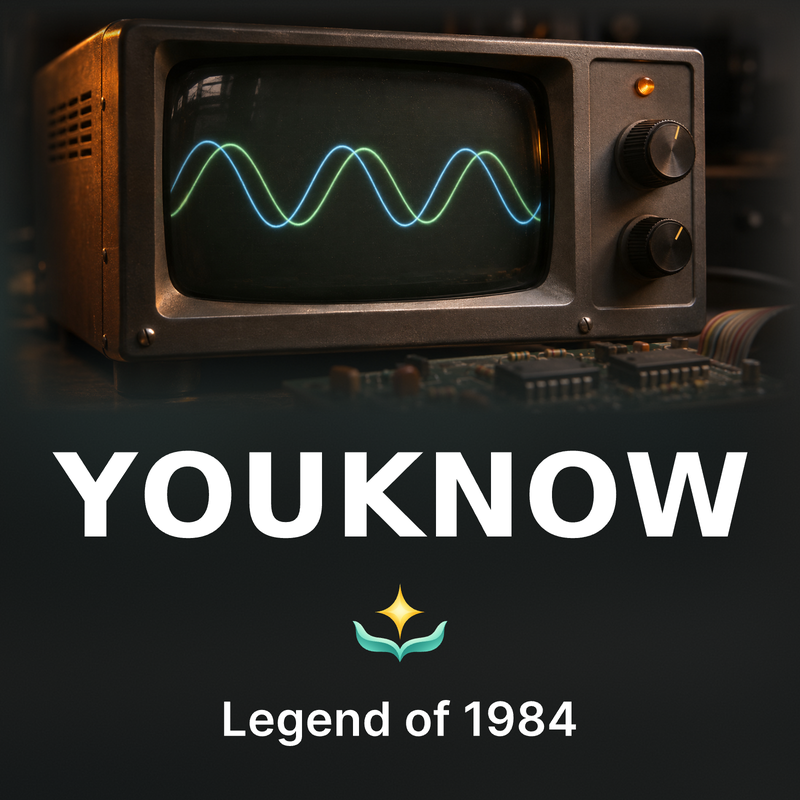
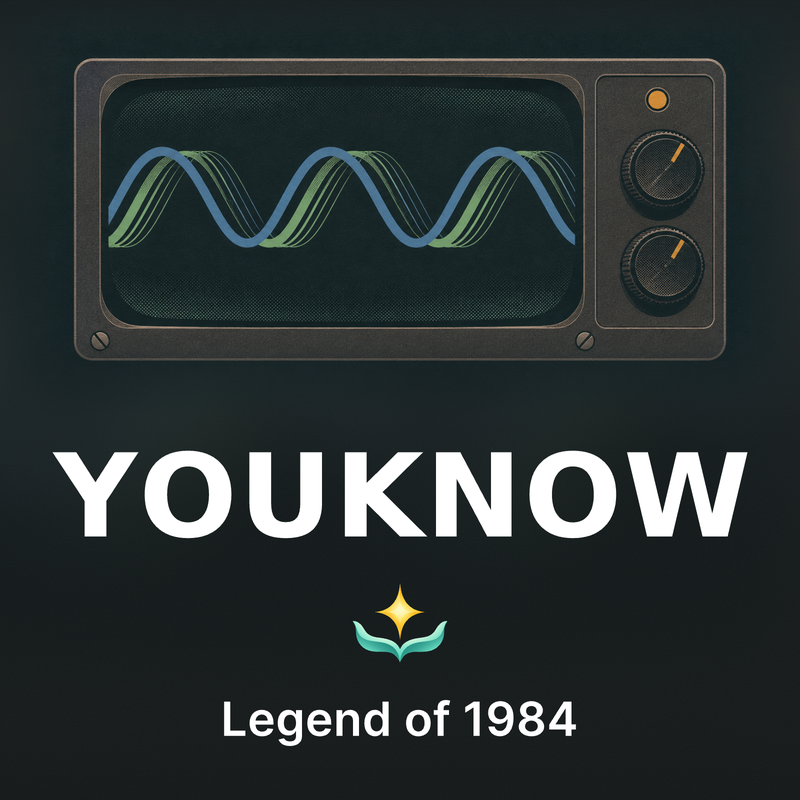
Publish illustrated overhead and front views on the synth covers
Entire-Checkpoint: a12cfdf2ab6d

Changed region(s): [[0.0, 0.0, 0.9688, 0.5]]

diff --git a/index.html b/index.html
@@ -13,7 +13,7 @@
     content="Engineering for startups and software instruments for musicians. An independent creative software studio in Prague.">
   <meta property="og:type" content="website">
   <meta property="og:url" content="https://protocodus.cz/">
-  <meta property="og:image" content="https://protocodus.cz/product/youknow/YouKnow_Thumbnail_800.png?v=37215dab394b">
+  <meta property="og:image" content="https://protocodus.cz/product/youknow/YouKnow_Thumbnail_800.png?v=ca85e44b1460">
   <meta property="og:image:width" content="800">
   <meta property="og:image:height" content="800">
   <link rel="canonical" href="https://protocodus.cz/">
@@ -212,7 +212,7 @@
           </article>
 
           <article class="product-card p-youknow">
-            <a class="product-shot" href="/product/youknow/" aria-label="Explore YouKnow" data-analytics-cta="product_youknow_image" data-analytics-action="select_product"><img src="product/youknow/YouKnow_Thumbnail_800.png?v=37215dab394b" width="800" height="800" loading="lazy" decoding="async" alt="YouKnow Legend of 1984 cover showing blue and green chorus traces on a vintage oscilloscope above a chorus circuit"></a>
+            <a class="product-shot" href="/product/youknow/" aria-label="Explore YouKnow" data-analytics-cta="product_youknow_image" data-analytics-action="select_product"><img src="product/youknow/YouKnow_Thumbnail_800.png?v=ca85e44b1460" width="800" height="800" loading="lazy" decoding="async" alt="YouKnow cover with a front view of an oscilloscope. Blue and sage chorus traces cross its screen."></a>
             <div class="product-body">
               <div class="product-tags"><span class="rack-extension-mark"><img src="/assets/images/reason-rack-extension.svg" width="1000" height="1118" alt="Reason Rack Extension" loading="lazy"></span><span class="product-type">Circuit-modelled polysynth</span></div>
               <h3><a href="/product/youknow/" data-analytics-cta="product_youknow_title" data-analytics-action="select_product">YouKnow</a></h3>
@@ -223,7 +223,7 @@
           </article>
 
           <article class="product-card p-ceres">
-            <a class="product-shot" href="/product/ceres/" aria-label="Explore Ceres" data-analytics-cta="product_ceres_image" data-analytics-action="select_product"><img src="product/ceres/Ceres_Thumbnail_800.png?v=f28b48181a28" width="800" height="800" loading="lazy" decoding="async" alt="Ceres Circuit-Modelled Synth cover showing paired banks of filter transistors on an olive circuit board in a walnut case"></a>
+            <a class="product-shot" href="/product/ceres/" aria-label="Explore Ceres" data-analytics-cta="product_ceres_image" data-analytics-action="select_product"><img src="product/ceres/Ceres_Thumbnail_800.png?v=c3adc955ffbd" width="800" height="800" loading="lazy" decoding="async" alt="Ceres cover with an overhead print of two olive filter stages and crossing gold and ivory response curves."></a>
             <div class="product-body">
               <div class="product-tags"><span>Rack Extension</span><span class="product-type">Circuit-modelled polysynth</span></div>
               <h3><a href="/product/ceres/" data-analytics-cta="product_ceres_title" data-analytics-action="select_product">Ceres</a></h3>
@@ -234,7 +234,7 @@
           </article>
 
           <article class="product-card p-press78">
-            <a class="product-shot" href="/product/press78/" aria-label="Explore Press78" data-analytics-cta="product_press78_image" data-analytics-action="select_product"><img src="product/press78/Press78_Thumbnail_800.png?v=3d3786662a6e" width="800" height="800" loading="lazy" decoding="async" alt="Press78 FM Synthesizer cover showing an open ceramic chip with a blue and rose silicon die and gold bond wires"></a>
+            <a class="product-shot" href="/product/press78/" aria-label="Explore Press78" data-analytics-cta="product_press78_image" data-analytics-action="select_product"><img src="product/press78/Press78_Thumbnail_800.png?v=24de13fba81a" width="800" height="800" loading="lazy" decoding="async" alt="Press78 cover with an overhead print of an FM chip. Blue operator lines flow into rose waves between gold pins."></a>
             <div class="product-body">
               <div class="product-tags"><span>Rack Extension</span><span class="product-type">Two-operator FM synth</span></div>
               <h3><a href="/product/press78/" data-analytics-cta="product_press78_title" data-analytics-action="select_product">Press78</a></h3>

diff --git a/product/press78/index.html b/product/press78/index.html
@@ -11,10 +11,10 @@
   <meta property="og:description" content="Press78 is an editable two-operator FM synthesizer Rack Extension for Reason, carrying the character of a vintage FM home keyboard with stereo chorus and output-circuit colour.">
   <meta property="og:type" content="website">
   <meta property="og:url" content="https://protocodus.cz/product/press78/">
-  <meta property="og:image" content="https://protocodus.cz/product/press78/Press78_Thumbnail_800.png?v=3d3786662a6e">
+  <meta property="og:image" content="https://protocodus.cz/product/press78/Press78_Thumbnail_800.png?v=24de13fba81a">
   <meta property="og:image:width" content="800">
   <meta property="og:image:height" content="800">
-  <meta property="og:image:alt" content="Press78 FM Synthesizer cover showing an open ceramic chip with a blue and rose silicon die and gold bond wires">
+  <meta property="og:image:alt" content="Press78 cover with an overhead print of an FM chip. Blue operator lines flow into rose waves between gold pins.">
   <link rel="canonical" href="https://protocodus.cz/product/press78/">
   <link rel="icon" type="image/svg+xml" href="/assets/images/favicon.svg?v=20260911">
   <link rel="preload" href="/assets/fonts/space-grotesk-latin.woff2" as="font" type="font/woff2" crossorigin>

diff --git a/product/youknow/index.html b/product/youknow/index.html
@@ -11,10 +11,10 @@
   <meta property="og:description" content="YouKnow for Reason: circuit-modelled voices, nonlinear filter and stereo BBD chorus. 100 authored Rack patches, up to 16 voices. See the current Reason Shop release.">
   <meta property="og:type" content="website">
   <meta property="og:url" content="https://protocodus.cz/product/youknow/">
-  <meta property="og:image" content="https://protocodus.cz/product/youknow/YouKnow_Thumbnail_800.png?v=37215dab394b">
+  <meta property="og:image" content="https://protocodus.cz/product/youknow/YouKnow_Thumbnail_800.png?v=ca85e44b1460">
   <meta property="og:image:width" content="800">
   <meta property="og:image:height" content="800">
-  <meta property="og:image:alt" content="YouKnow Legend of 1984 cover showing blue and green chorus traces on a vintage oscilloscope above a chorus circuit">
+  <meta property="og:image:alt" content="YouKnow cover with a front view of an oscilloscope. Blue and sage chorus traces cross its screen.">
   <link rel="canonical" href="https://protocodus.cz/product/youknow/">
   <link rel="icon" type="image/svg+xml" href="/assets/images/favicon.svg?v=20260911">
   <link rel="preload" href="/assets/fonts/space-grotesk-latin.woff2" as="font" type="font/woff2" crossorigin>

diff --git a/product/ceres/index.html b/product/ceres/index.html
@@ -11,10 +11,10 @@
   <meta property="og:description" content="Ceres for Reason 14 offers circuit-modelled synthesis, 23 patches, 1–16 voices per layer, Mono/Double and external modulation. Available in the Reason Shop.">
   <meta property="og:type" content="website">
   <meta property="og:url" content="https://protocodus.cz/product/ceres/">
-  <meta property="og:image" content="https://protocodus.cz/product/ceres/Ceres_Thumbnail_800.png?v=f28b48181a28">
+  <meta property="og:image" content="https://protocodus.cz/product/ceres/Ceres_Thumbnail_800.png?v=c3adc955ffbd">
   <meta property="og:image:width" content="800">
   <meta property="og:image:height" content="800">
-  <meta property="og:image:alt" content="Ceres Circuit-Modelled Synth cover showing paired banks of filter transistors on an olive circuit board in a walnut case">
+  <meta property="og:image:alt" content="Ceres cover with an overhead print of two olive filter stages and crossing gold and ivory response curves.">
   <link rel="canonical" href="https://protocodus.cz/product/ceres/">
   <link rel="icon" type="image/svg+xml" href="/assets/images/favicon.svg?v=20260911">
   <link rel="preload" href="/assets/fonts/space-grotesk-latin.woff2" as="font" type="font/woff2" crossorigin>
